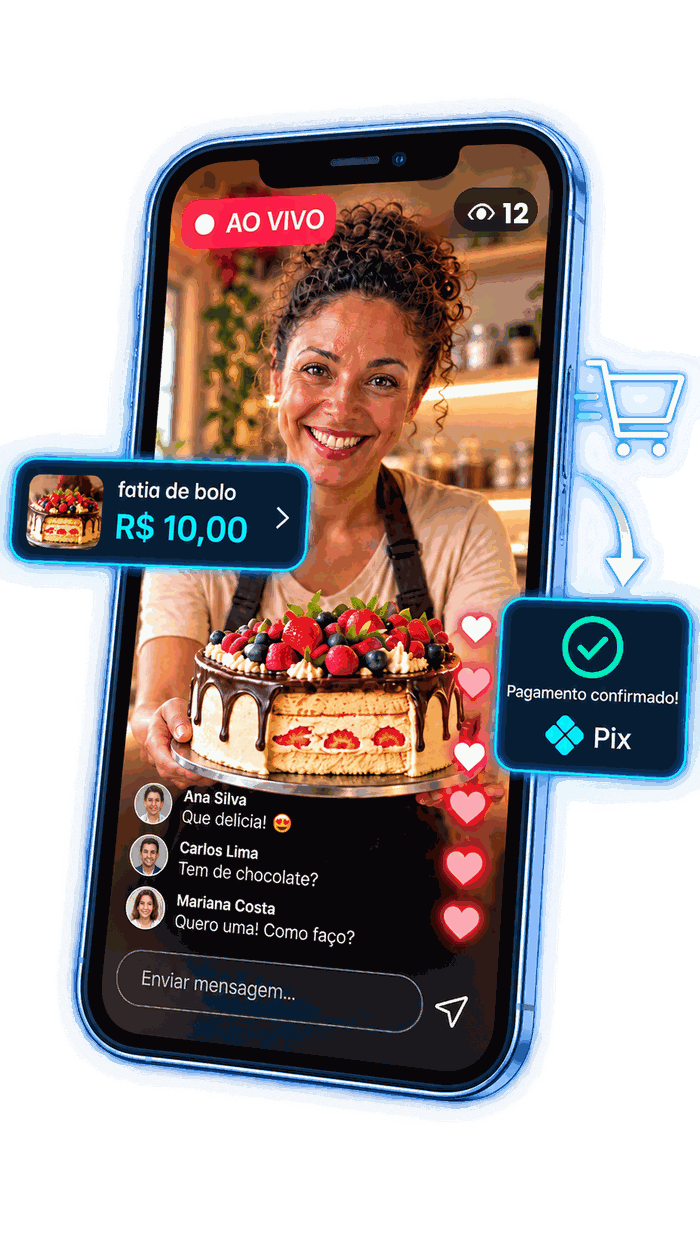
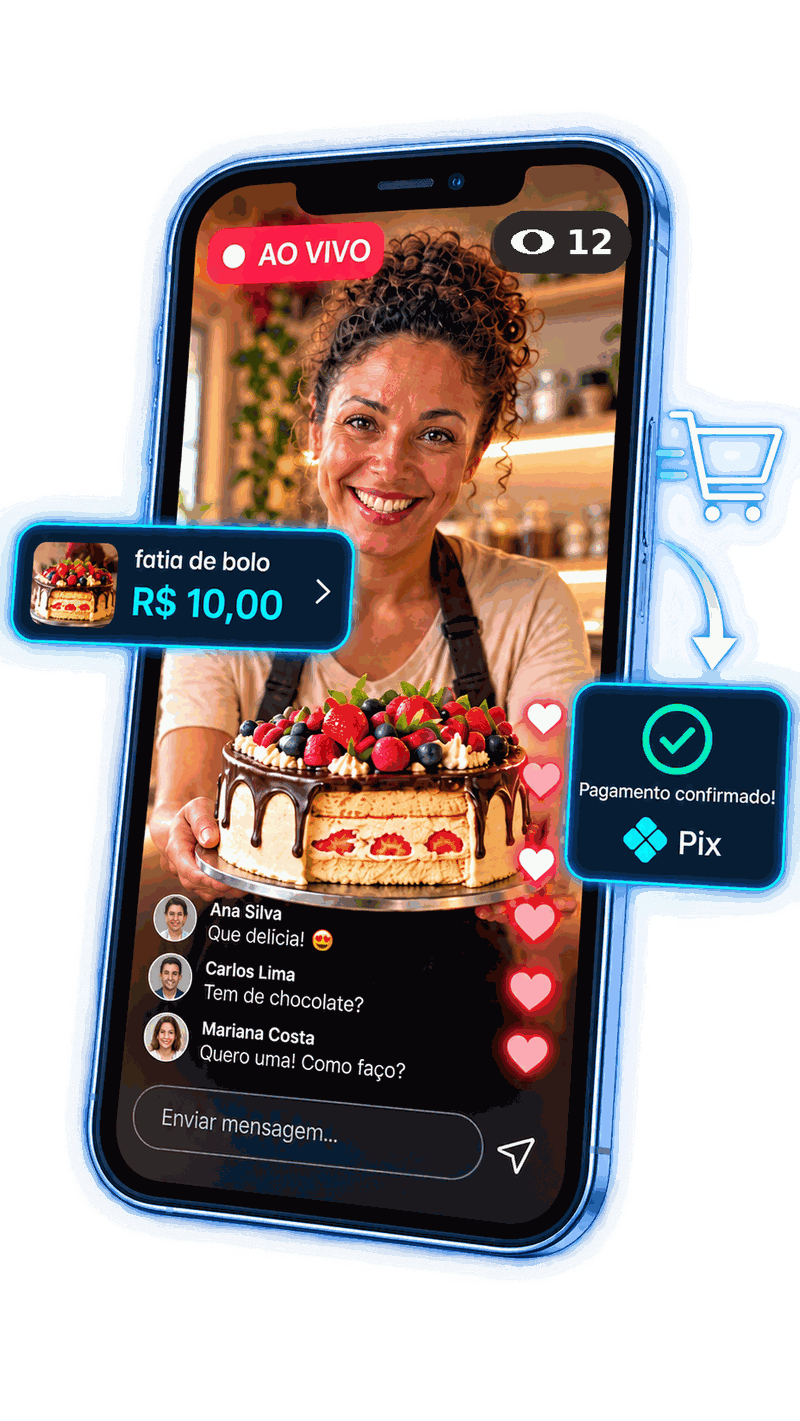
Add files via upload

diff --git a/comerciantes.html b/comerciantes.html
@@ -1,12 +1,12 @@
 <!DOCTYPE html><html lang="pt-BR"><head>
 <meta charset="UTF-8"><meta name="viewport" content="width=device-width, initial-scale=1">
-<title>Moviki · Seu cliente descobre onde você está hoje</title>
-<meta name="description" content="Você não perde venda porque seu produto é ruim. Perde porque o cliente não sabe onde você está hoje. Coloque seu negócio no mapa em tempo real, com cardápio, promoções e um link só seu. 30 dias do plano Pró grátis, sem cartão.">
+<title>Moviki · Seu negócio no mapa. E em vídeo.</title>
+<meta name="description" content="Venda em tempo real e fale com quem está perto. O Moviki mostra onde o seu negócio está agora e deixa você vender ao vivo pela câmera do celular. 30 dias grátis, sem cartão e sem comissão por venda.">>
 <meta name="robots" content="index,follow">
 <link rel="canonical" href="https://www.moviki.com.br/comerciantes.html">
-<meta property="og:title" content="Moviki · Seu cliente descobre onde você está hoje">
-<meta property="og:description" content="Negócio no mapa em tempo real e ao vivo pela câmera do celular. Cardápio, promoções e um link só seu. Sem comissão por venda.">
-<meta property="og:image" content="https://www.moviki.com.br/ogmoviki.jpg">
+<meta property="og:title" content="Moviki · Seu negócio no mapa. E em vídeo.">
+<meta property="og:description" content="Venda em tempo real e fale com quem está perto. Negócio no mapa, cardápio, promoções e venda ao vivo pela câmera do celular. Sem comissão por venda.">
+<meta property="og:image" content="https://www.moviki.com.br/livehero.jpg">
 <meta property="og:url" content="https://www.moviki.com.br/comerciantes.html">
 <meta property="og:type" content="website">
 <link rel="icon" href="favicon512.png">
@@ -108,8 +108,13 @@
   .rodape .emp{color:#c2cfdd;font-weight:600}
   .rodape .legal{font-size:12.5px}
 
-  .heroVisual{margin-top:24px;display:flex;justify-content:center}
-  .phoneImg{max-width:240px;width:62%;height:auto;filter:drop-shadow(0 22px 44px rgba(0,0,0,.55))}
+  .heroVisual{margin-top:24px;display:flex;flex-direction:column;align-items:center;gap:4px}
+/* 16/09/2026 - a arte do hero deixou de ser o mockup QUADRADO (760x760) e
+   passou a ser o celular VERTICAL do Modo Live (800x1421). O max-width de
+   240px, feito para o quadrado, deixava a arte nova do tamanho de um selo.
+   A legenda desceu para baixo da arte, em coluna, em vez de ficar ao lado. */
+.heroVisual .selo{max-width:420px;text-align:center}
+  .phoneImg{max-width:340px;width:100%;height:auto;filter:drop-shadow(0 22px 44px rgba(0,0,0,.55))}
 
   @media(max-width:620px){
     h1{font-size:29px}
@@ -130,7 +135,7 @@
       font-size:11.5px;letter-spacing:.04em;text-transform:uppercase;color:var(--suave);font-weight:700}
     .comp td[data-l="No Moviki"]::before{color:var(--ciano)}
     .comp td[data-l="No Google"]{color:var(--suave);font-weight:500}
-    .phoneImg{width:52%;max-width:210px}
+    .phoneImg{width:78%;max-width:280px}
   }
   @media print{body{background:#050b14 !important;-webkit-print-color-adjust:exact;print-color-adjust:exact}.cta{box-shadow:none}section{padding:18px 0}.final{margin:12px 0}.faq details{open:true}}
 
@@ -172,13 +177,25 @@
 
 <div class="wrap">
 
+  <!-- ===== HERO — 16/09/2026 ===============================================
+       O posicionamento passou a ser o do panfleto novo: MAPA **E VIDEO**.
+       Ate aqui a pagina vendia so "ser encontrado"; o Modo Live entrou no
+       produto e a promessa acompanhou. A ordem importa: quem se move precisa
+       PRIMEIRO ser achado, e so depois vender ao vivo — por isso o mapa
+       continua na frase, e nao sai dela. -->
   <div class="hero" data-sec="hero">
     <span class="pill"><span class="dot"></span> Para quem vende e precisa ser achado</span>
-    <h1>O cliente não deixou de comprar. Ele <span class="g">não sabia onde você estava hoje</span>.</h1>
-    <p class="sub">O Moviki mostra, em tempo real, onde o seu negócio está agora — com cardápio, promoções e um link só seu. O cliente abre o link e vê na hora: onde você está, se está aberto e o que tem hoje.</p>
+    <h1>Seu negócio no mapa. <span class="g">E em vídeo.</span></h1>
+    <p class="sub">Venda em tempo real e fale com quem está perto. O Moviki mostra onde você está agora — e deixa você abrir a câmera do celular, mostrar o produto na mão e receber o pedido ali mesmo.</p>
     <div class="ctas"><a class="cta" href="https://app.moviki.com.br/?criar=1" data-ev="comecar_hero">Criar minha página grátis →</a></div>
     <div class="selo"><b>30 dias do plano Pró, grátis</b> · sem cartão de crédito · cancela quando quiser</div>
-    <div class="heroVisual"><img src="app-mockup.png" alt="A página do seu negócio no Moviki, vista no celular do cliente" class="phoneImg" width="760" height="760"></div>
+    <div class="heroVisual">
+      <picture>
+        <source srcset="livehero.webp" type="image/webp">
+        <img src="livehero.png" alt="Celular transmitindo ao vivo pelo Moviki: selo AO VIVO, produto com preço fixo na tela, chat dos clientes e confirmação de pagamento por Pix." class="phoneImg" width="800" height="1421" fetchpriority="high" decoding="async">
+      </picture>
+      <p class="selo" style="margin-top:10px">Ilustração da tela do Moviki — os números são exemplo. Na live de verdade, tudo o que aparece na tela é contado.</p>
+    </div>
   </div>
 
   <section data-sec="google">
@@ -194,6 +211,7 @@
           <tr><td>Cardápio com preço</td><td data-l="No Google">Limitado</td><td data-l="No Moviki">Completo, com foto de cada item</td></tr>
           <tr><td>Promoção do dia</td><td data-l="No Google">Não tem</td><td data-l="No Moviki">Cria e tira quando quiser</td></tr>
           <tr><td>Seu link</td><td data-l="No Google">Endereço longo do mapa</td><td data-l="No Moviki">moviki.com.br/<b>seunome</b></td></tr>
+          <tr><td><b>Vender ao vivo pela câmera</b></td><td data-l="No Google">Não tem</td><td data-l="No Moviki">Tem, a partir do plano Pró</td></tr>
           <tr><td>Comissão por venda</td><td data-l="No Google">—</td><td data-l="No Moviki">Nenhuma</td></tr>
         </tbody>
       </table>
@@ -205,7 +223,7 @@
     <h2>Para quem o Moviki é</h2>
     <p class="lead">Se o seu cliente precisa saber onde você está, ou o que você tem hoje, é para você.</p>
     <div class="quem">
-      <div><div class="t">Quem se move</div><div class="e">Food truck, carrinho, barraca de feira, ambulante, quiosque, entrega, atendimento em casa.</div></div>
+      <div><div class="t">Quem se move</div><div class="e">Food truck, feira, carrinho, quiosque, van, ambulante, entrega, atendimento em casa.</div></div>
       <div><div class="t">Quem tem ponto fixo</div><div class="e">Salão, barbearia, mercadinho, loja de bairro, oficina, lanchonete, restaurante.</div></div>
       <div><div class="t">Quem presta serviço</div><div class="e">Manicure, eletricista, pedreiro, diarista, costureira, técnico, personal.</div></div>
     </div>
@@ -230,36 +248,38 @@
     <div class="ctas"><a class="cta sec" href="https://app.moviki.com.br/?criar=1" data-ev="comecar_video">Prefiro já criar a minha página</a></div>
   </section>
 
+  <!-- ===== O QUE VEM JUNTO — 16/09/2026 ====================================
+       Os sete blocos sao os mesmos do panfleto novo, na mesma ordem, com as
+       mesmas palavras. Papel e site tem que dizer a mesma coisa: o lojista
+       recebe o panfleto do parceiro na rua e abre este link em seguida.
+       O icone /icones-premium/live.png ainda NAO existe; enquanto nao existir,
+       o proprio codigo troca pelo emoji e nada quebra. -->
   <section data-sec="oquetem">
     <h2>O que vem junto</h2>
     <p class="lead">Tudo dentro de um link só seu — que você manda no WhatsApp, cola na bio do Instagram e imprime no cartão.</p>
     <div class="cards">
-      <div class="card"><img class="ic3d" src="/icones-premium/localizacao.png" alt="" loading="lazy" onerror="mvIco(this,'','📍')"><span class="icEmoji" hidden>📍</span><h3>No mapa, em tempo real</h3><p>Mostra onde você está agora. Mudou de ponto no meio do dia? Atualiza pelo celular.</p></div>
-      <div class="card"><img class="ic3d" src="/icones-premium/link.png" alt="" loading="lazy" onerror="mvIco(this,'','🔗')"><span class="icEmoji" hidden>🔗</span><h3>Um link só seu</h3><p>moviki.com.br/seunome. Fácil de falar no telefone, fácil de divulgar, e é seu.</p></div>
-      <div class="card"><img class="ic3d" src="/icones-premium/cardapio.png" alt="" loading="lazy" onerror="mvIco(this,'','🍽')"><span class="icEmoji" hidden>🍽</span><h3>Cardápio e promoções</h3><p>O que você vende, o preço e a oferta do dia — com foto. Atualiza em segundos.</p></div>
-      <div class="card"><img class="ic3d" src="/icones-premium/aberto.png" alt="" loading="lazy" onerror="mvIco(this,'','🟢')"><span class="icEmoji" hidden>🟢</span><h3>Aberto ou fechado</h3><p>O cliente vê na hora se dá para ir — e chama você direto no WhatsApp.</p></div>
-      <div class="card"><img class="ic3d" src="/icones-premium/avaliacoes.png" alt="" loading="lazy" onerror="mvIco(this,'','⭐')"><span class="icEmoji" hidden>⭐</span><h3>Avaliações</h3><p>Seus clientes deixam estrela e recado, e você responde. Em todos os planos, inclusive no grátis.</p></div>
+      <div class="card"><img class="ic3d" src="/icones-premium/localizacao.png" alt="" loading="lazy" onerror="mvIco(this,'','📍')"><span class="icEmoji" hidden>📍</span><h3>Localização em tempo real</h3><p>Seu negócio visível para quem está perto. Mudou de ponto no meio do dia? Atualiza pelo celular.</p></div>
+      <div class="card"><img class="ic3d" src="/icones-premium/live.png" alt="" loading="lazy" onerror="mvIco(this,'','🔴')"><span class="icEmoji" hidden>🔴</span><h3>Venda por vídeo</h3><p>Mostre seus produtos ao vivo e receba pedidos na hora, sem sair da transmissão. A partir do plano Pró.</p></div>
+      <div class="card"><img class="ic3d" src="/icones-premium/link.png" alt="" loading="lazy" onerror="mvIco(this,'','🔗')"><span class="icEmoji" hidden>🔗</span><h3>Link próprio</h3><p>moviki.com.br/seunome. Fácil de falar no telefone, fácil de compartilhar nas redes, e é seu.</p></div>
+      <div class="card"><img class="ic3d" src="/icones-premium/cardapio.png" alt="" loading="lazy" onerror="mvIco(this,'','🍽')"><span class="icEmoji" hidden>🍽</span><h3>Cardápio e preços</h3><p>O que você vende, quanto custa e a foto de cada item. Tudo em um só lugar, atualizado em segundos.</p></div>
+      <div class="card"><img class="ic3d" src="/icones-premium/promocoes.png" alt="" loading="lazy" onerror="mvIco(this,'','📣')"><span class="icEmoji" hidden>📣</span><h3>Promoções e eventos</h3><p>Divulgue a oferta do dia e onde você vai estar. Cria e tira quando quiser, sem depender de ninguém.</p></div>
+      <div class="card"><img class="ic3d" src="/icones-premium/whatsapp.png" alt="" loading="lazy" onerror="mvIco(this,'','💬')"><span class="icEmoji" hidden>💬</span><h3>WhatsApp e como chegar</h3><p>O cliente vê se você está aberto, chama você direto e abre a rota até onde você está agora.</p></div>
       <div class="card"><img class="ic3d" src="/icones-premium/zero-comissao.png" alt="" loading="lazy" onerror="mvIco(this,'zerocomissao.png','🚫')"><span class="icEmoji" hidden>🚫</span><h3>Sem comissão por venda</h3><p>Você paga a mensalidade e fica com 100% do que vende. O Moviki não entra no meio do seu caixa.</p></div>
-  <div class="card"><img class="ic3d" src="/icones-premium/live.png" alt="" loading="lazy" onerror="mvIco(this,'','🔴')"><span class="icEmoji" hidden>🔴</span><h3>Ao vivo, pela câmera do celular</h3><p>Mostre o produto na mão, responda a dúvida na hora e deixe o preço fixo na tela. A partir do plano Pró.</p></div>
     </div>
   </section>
 
-  <!-- ===== MODO LIVE - 16/09/2026 =========================================
-       Por que esta faixa existe: o parceiro divulga peca de live, a pessoa
-       clica no link dele (/p/apelido) e caia AQUI, numa pagina que nao dizia
-       uma palavra sobre live. Peca de live, pagina muda.
-       A promessa central da pagina NAO muda: o Moviki entrega SER ENCONTRADO.
-       A live entra como o que ela e - a ferramenta que fecha a venda depois
-       que o cliente encontrou. Quem quiser o argumento inteiro vai para a
-       /aovivo, que e a pagina dedicada.
-       Ganhou data-sec proprio: agora da para medir quantos chegam ate aqui. -->
+  <!-- ===== MODO LIVE — 16/09/2026 ==========================================
+       Esta faixa existe por um motivo de funil: o parceiro divulga peca de
+       live, a pessoa clica no link dele (/p/apelido) e caia AQUI. Ate 16/09
+       esta pagina nao dizia uma palavra sobre live.
+       Ganhou data-sec proprio: da para medir quantos chegam ate aqui. -->
   <section data-sec="live">
-    <h2>E agora, também ao vivo</h2>
-    <p class="lead">Estar no mapa faz o cliente te achar. O <b>Modo Live</b> resolve o passo seguinte: você abre a câmera do seu celular, mostra o produto na mão, responde a dúvida na hora — e quem está assistindo compra ali mesmo, sem sair da transmissão.</p>
+    <h2>Venda em tempo real, <span class="g">pela câmera do celular</span></h2>
+    <p class="lead">Estar no mapa faz o cliente te achar. O <b>Modo Live</b> resolve o passo seguinte: você abre a câmera, mostra o produto na mão, responde a dúvida na hora — e quem está assistindo compra ali mesmo.</p>
     <div class="cards">
       <div class="card"><img class="ic3d" src="/icones-premium/foto-produto.png" alt="" loading="lazy" onerror="mvIco(this,'fotoproduto.png','📦')"><span class="icEmoji" hidden>📦</span><h3>O produto fixo na tela</h3><p>Foto, nome e preço sempre à vista. Quem chegou no meio não precisa perguntar o que é nem quanto custa.</p></div>
       <div class="card"><img class="ic3d" src="/icones-premium/chat.png" alt="" loading="lazy" onerror="mvIco(this,'','💬')"><span class="icEmoji" hidden>💬</span><h3>A dúvida some na hora</h3><p>A pergunta de um vira resposta para todos. É a conversa do balcão, com todo mundo junto.</p></div>
-      <div class="card"><img class="ic3d" src="/icones-premium/pix.png" alt="" loading="lazy" onerror="mvIco(this,'','💸')"><span class="icEmoji" hidden>💸</span><h3>Pix dentro da live</h3><p>QR na hora e o dinheiro caindo numa conta aberta no seu nome — nunca na conta do Moviki. Recurso do Enterprise.</p></div>
+      <div class="card"><img class="ic3d" src="/icones-premium/pix.png" alt="" loading="lazy" onerror="mvIco(this,'','💸')"><span class="icEmoji" hidden>💸</span><h3>Pix dentro da transmissão</h3><p>QR na hora e o dinheiro caindo numa conta aberta no seu nome — nunca na conta do Moviki. Recurso do plano Enterprise.</p></div>
     </div>
     <div class="ctas" style="margin-top:22px"><a class="cta" href="/aovivo" data-ev="ver_modo_live">Ver como funciona o Modo Live →</a></div>
     <div class="selo">Já funciona no teste grátis, em nível Pró. Nenhuma live fica gravada em servidor do Moviki, e o número de quem está assistindo é contado de verdade.</div>
@@ -271,7 +291,7 @@
     <div class="passos">
       <div class="passo"><div><b>Crie sua conta grátis</b><span>Leva menos de 2 minutos, e não pede cartão.</span></div></div>
       <div class="passo"><div><b>Monte sua página</b><span>Nome, localização, WhatsApp, cardápio e promoções.</span></div></div>
-      <div class="passo"><div><b>Mande o link</b><span>No WhatsApp, na bio do Instagram, no cartão — e o cliente te acha.</span></div></div>
+      <div class="passo"><div><b>Mande o link e apareça</b><span>No WhatsApp, na bio do Instagram, no cartão — e, quando quiser, abra a câmera e venda ao vivo.</span></div></div>
     </div>
     <div class="ctas"><a class="cta" href="https://app.moviki.com.br/?criar=1" data-ev="comecar_passos">Começar agora, de graça →</a></div>
   </section>
@@ -292,7 +312,7 @@
     <div class="faq">
       <details><summary>Preciso entender de computador?</summary><div class="r">Não. É tudo pelo celular, na tela grande, em português, com videoaulas curtas dentro do painel explicando cada parte. Se travar, você fala com a gente por dentro do próprio sistema.</div></details>
       <details><summary>E se eu mudar de ponto todo dia?</summary><div class="r">É exatamente para isso que o Moviki existe. Você abre o painel, marca onde está, e a sua página já mostra o ponto novo para quem abrir o link. Não precisa avisar ninguém, não precisa refazer nada.</div></details>
-      <details><summary>O que é esse "ao vivo" que vocês falam?</summary><div class="r">É o Modo Live: você transmite pela câmera do próprio celular, direto do painel, sem instalar nada. O cliente entra por um link, vê o produto de perto com o preço fixo na tela, pergunta no chat e compra. Já funciona no teste grátis. A página <a href="/aovivo" data-ev="faq_aovivo">Modo Live</a> explica tudo com calma.</div></details>
+      <details><summary>Como funciona essa venda por vídeo?</summary><div class="r">É o Modo Live: você transmite pela câmera do próprio celular, direto do painel, sem instalar nada. O cliente entra por um link, vê o produto de perto com o preço fixo na tela, pergunta no chat e compra. Já funciona no teste grátis. A página <a href="/aovivo" data-ev="faq_aovivo">Modo Live</a> explica com calma.</div></details>
       <details><summary>Vou pagar comissão das minhas vendas?</summary><div class="r">Não. A venda é combinada entre você e o seu cliente, pelo WhatsApp ou pessoalmente. O Moviki cobra só a mensalidade do plano — o que você vende é 100% seu.</div></details>
       <details><summary>Preciso de cartão de crédito para testar?</summary><div class="r">Não. São 30 dias do plano Pró liberados sem cartão. Se não quiser continuar, não faz nada e a conta volta para o plano Básico, que é gratuito e continua com o seu link no ar.</div></details>
       <details><summary>Eu já tenho Instagram e WhatsApp. Isso substitui?</summary><div class="r">Não substitui, organiza. O Instagram mostra o que você postou ontem; o WhatsApp responde um cliente por vez. O link do Moviki responde sozinho, para todos ao mesmo tempo, a pergunta que mais chega: <b>onde você está e o que tem hoje</b>.</div></details>
@@ -379,7 +399,7 @@ function mvIco(img,alt2,emoji){
       outros 206 pararam. Dispara uma vez por secao, por visita;
    3) chegou_por_indicacao — quando a visita veio de um link de parceiro.
    Nada aqui pode derrubar a pagina: tudo em try/catch. */
-window.MOVIKI_VERSAO = '2026-09-16-live';
+window.MOVIKI_VERSAO = '2026-09-16-video';
 (function(){
   /* 1) cliques */
   document.addEventListener('click', function(e){
